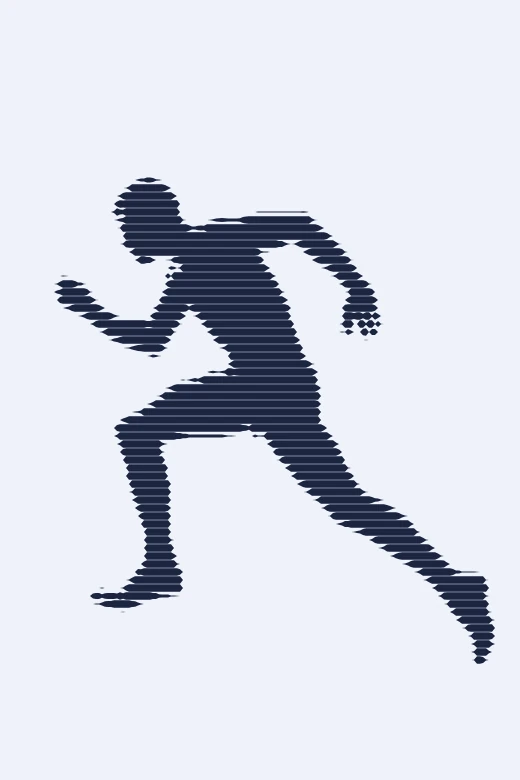
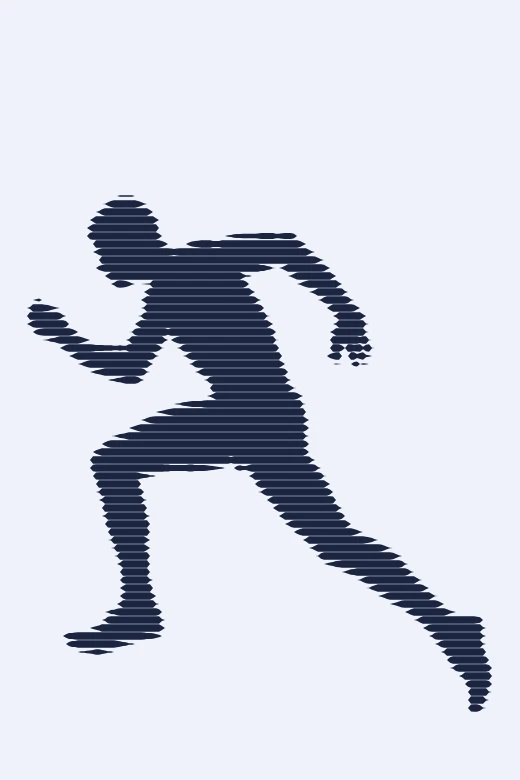
Site : Johnny vs Sophie en pts, scanlines des carrousels

Changed region(s): [[0.0308, 0.2154, 0.9538, 0.9231]]

diff --git a/src/components/home/SportsMarquee.tsx b/src/components/home/SportsMarquee.tsx
@@ -4,28 +4,31 @@ import Image from "next/image";
 import { useLang } from "@/lib/i18n";
 import { useInView, fadeUp, clipReveal } from "@/hooks/useInView";
 
-// Panneaux tirés des carrousels : la photo entière en scanlines (même rendu que les carrousels),
-// bleu marine sur bleu glacier. Images 520×780, affichées en 260×390 (rapport 2:1, lignes nettes).
+// Silhouettes des images des carrousels, toutes traitées pareil : détourées en silhouette pleine,
+// même taille de personne, posées sur la même ligne de sol, puis scanlines bleu marine sur bleu glacier.
+// On alterne femme / homme et le sens (gauche / droite). Images 520×780, affichées en 260×390 (rapport 2:1, lignes nettes).
 const SPORTS: { file: string; en: string; fr: string }[] = [
-  { file: "sprint", en: "Sprint", fr: "Sprint" },
+  { file: "running", en: "Running", fr: "Course" },
   { file: "cycling", en: "Cycling", fr: "Vélo" },
   { file: "lifting", en: "Lifting", fr: "Musculation" },
-  { file: "running", en: "Running", fr: "Course" },
+  { file: "sprint", en: "Sprint", fr: "Sprint" },
   { file: "tennis", en: "Tennis", fr: "Tennis" },
-  { file: "rowing", en: "Rowing", fr: "Aviron" },
+  { file: "wheelchair", en: "Wheelchair basketball", fr: "Basket fauteuil" },
+  { file: "nordic-walking", en: "Nordic walking", fr: "Marche nordique" },
   { file: "basketball", en: "Basketball", fr: "Basket" },
+  { file: "spin", en: "Indoor cycling", fr: "Vélo d'intérieur" },
   { file: "walking", en: "Walking", fr: "Marche" },
 ];
 
 const COPY = {
   en: {
     label: "Every sport counts",
-    h2: ["Run. Ride. Lift.", "Row. Play. Walk."],
+    h2: ["Run. Ride. Lift.", "Play. Walk. Win."],
     body: "If your heart rate goes up, it counts. Your watch measures the effort, Attax turns it into points. Whatever your sport, whatever your age.",
   },
   fr: {
     label: "Tous les sports comptent",
-    h2: ["Cours. Roule. Soulève.", "Rame. Joue. Marche."],
+    h2: ["Cours. Roule. Soulève.", "Joue. Marche. Gagne."],
     body: "Si ton cœur accélère, ça compte. Ta montre mesure l'effort, Attax le transforme en points. Quel que soit ton sport, quel que soit ton âge.",
   },
 };

diff --git a/scripts/scan-athletes/panels/make_silhouettes.py b/scripts/scan-athletes/panels/make_silhouettes.py
@@ -1,0 +1,26 @@
+# Prépare les silhouettes de la section « Every sport counts » : détourage (rembg), silhouette pleine,
+# même taille de personne (T × facteur), même ligne de sol, retournement pour alterner les sens.
+# Ensuite : node panel.mjs list.json out/  (scanlines identiques pour toutes).
+import numpy as np
+from PIL import Image
+from scipy import ndimage
+from rembg import remove, new_session
+SRC = "../../../../Desktop/Attax/socials/_kit/img/"   # dossier des images des carrousels (à adapter)
+W, H, GROUND, T = 520, 780, 712, 560
+S = [("126-A", "running", 1.0, False), ("041-A_flat", "cycling", 0.7, True), ("148-A", "lifting", 1.0, False),
+     ("010-B", "sprint", 0.92, False), ("141-A", "tennis", 0.80, False), ("105-A", "wheelchair", 0.78, True),
+     ("134-A", "nordic-walking", 0.97, True), ("106-A", "basketball", 1.08, True), ("092-A", "spin", 0.98, False),
+     ("099-A", "walking", 1.0, False)]
+session = new_session("isnet-general-use")
+for src, name, f, flip in S:
+    a = np.array(remove(Image.open(SRC + src + ".png").convert("RGB"), session=session).getchannel("A")) > 110
+    lab, n = ndimage.label(a); sizes = ndimage.sum(a, lab, range(1, n + 1))
+    keep = np.isin(lab, [k + 1 for k, s in enumerate(sizes) if s > 0.03 * sizes.max()])
+    ys, xs = np.nonzero(keep); crop = keep[ys.min():ys.max() + 1, xs.min():xs.max() + 1]
+    h, w = crop.shape; sc = T * f / h
+    if w * sc > W * 0.94: sc = W * 0.94 / w
+    im = Image.fromarray((crop * 255).astype("uint8")).resize((int(w * sc), int(h * sc)), Image.LANCZOS)
+    if flip: im = im.transpose(Image.FLIP_LEFT_RIGHT)
+    canvas = Image.new("L", (W, H), 255)
+    canvas.paste(Image.new("L", im.size, 0), ((W - im.size[0]) // 2, GROUND - im.size[1]), im)
+    canvas.convert("RGB").save(f"comp/{name}.png")
